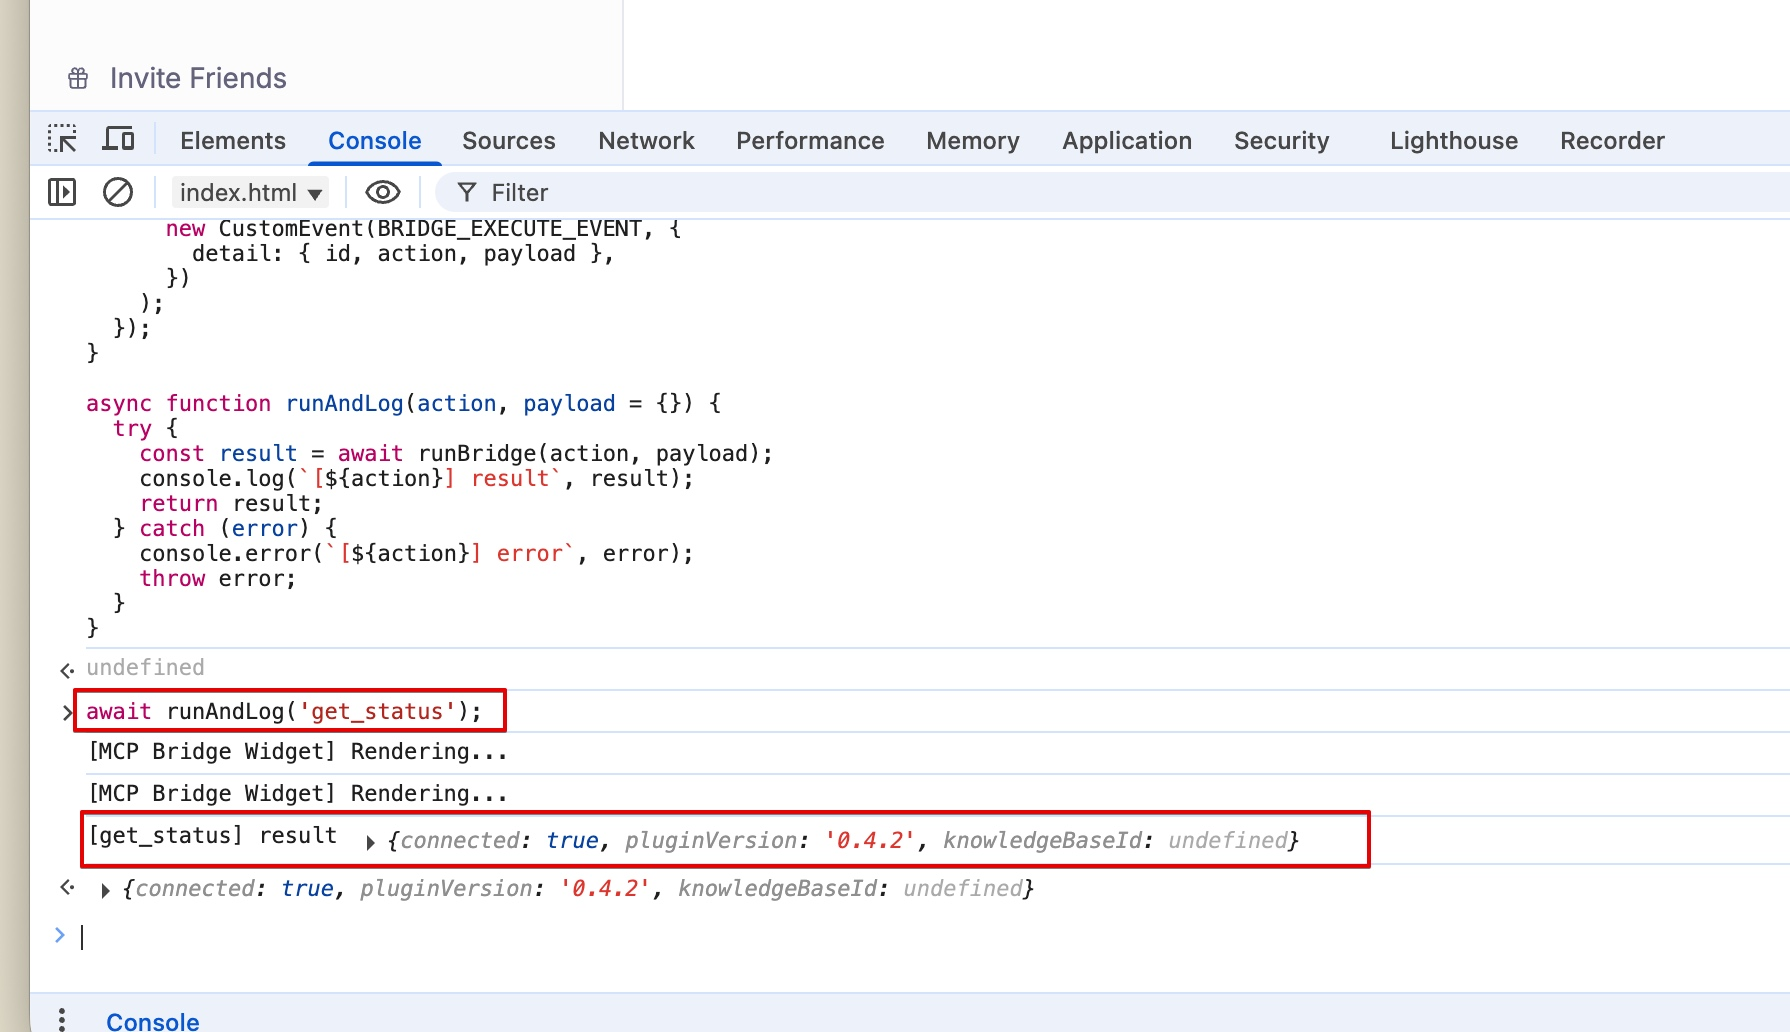
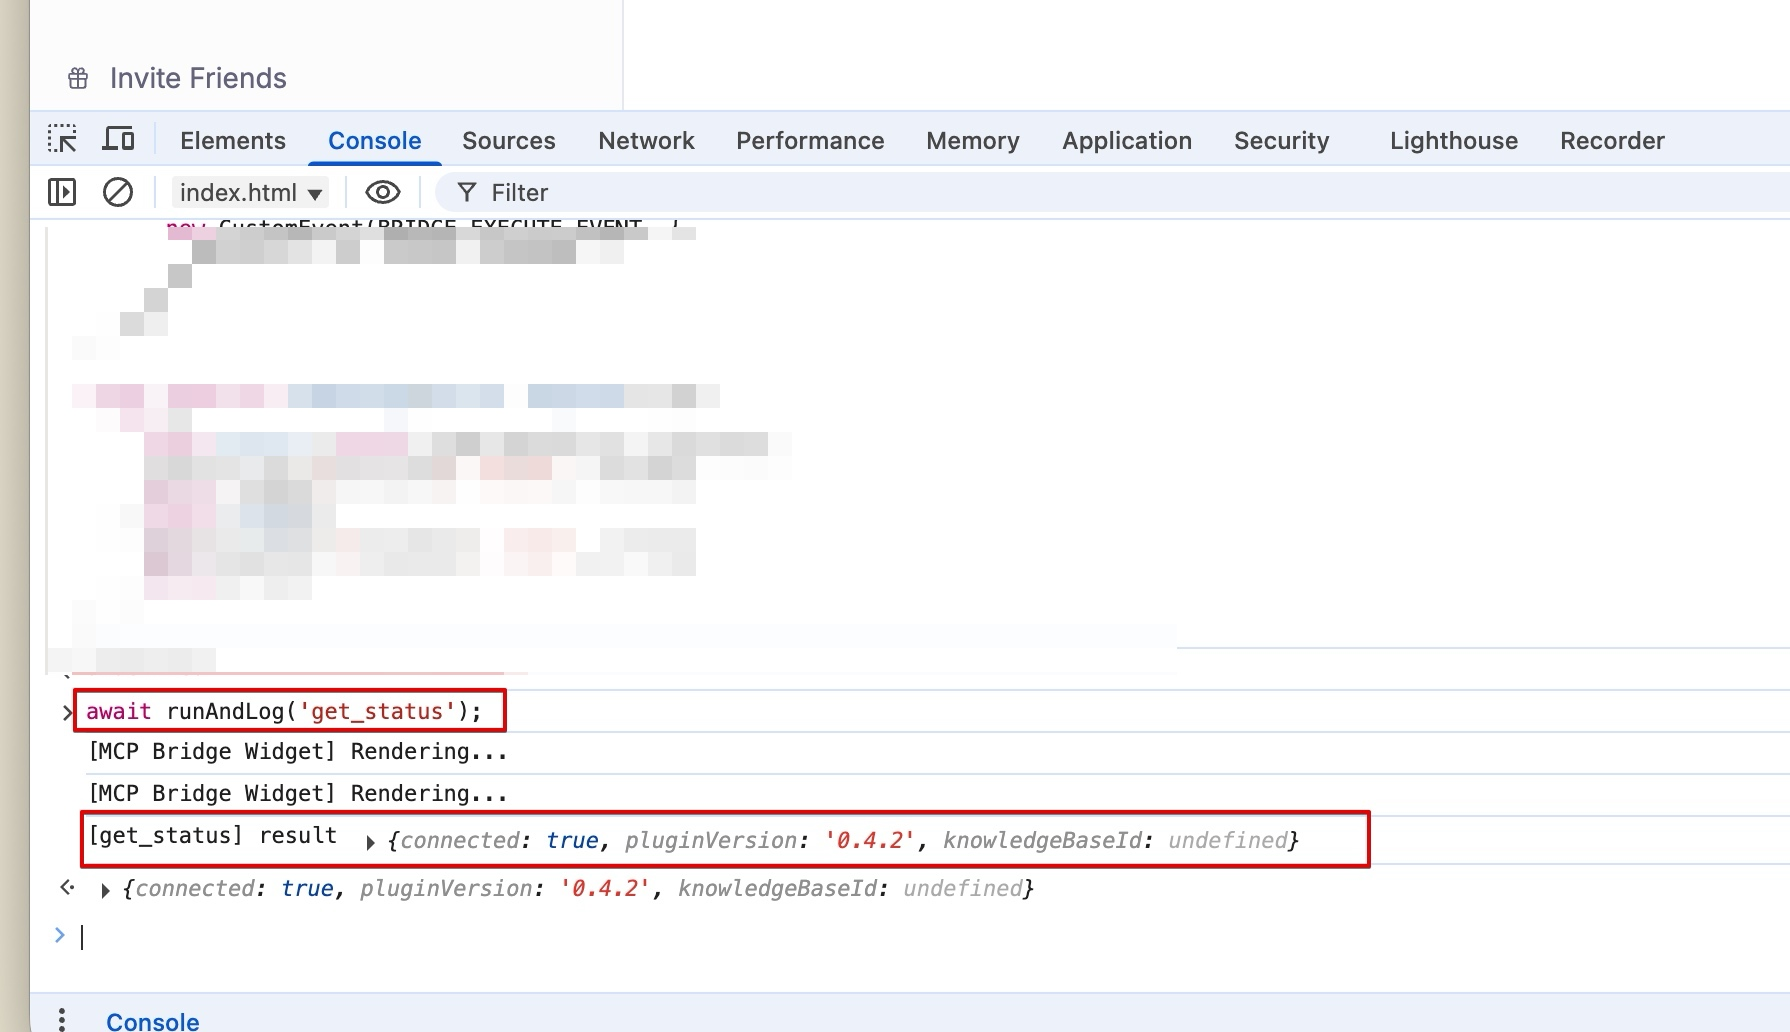
DevTools helper functions `runBridge` etc are now auto-exposed on `window.top`

diff --git a/src/widgets/devtools-bridge-executor.ts b/src/widgets/devtools-bridge-executor.ts
@@ -3,6 +3,28 @@ import { BridgeRequest } from '../bridge/websocket-client';
 export const DEVTOOLS_EXECUTE_EVENT = 'remnote:mcp:execute';
 export const DEVTOOLS_RESULT_EVENT = 'remnote:mcp:result';
 
+const LOG_TAG = '[runBridge v2]';
+
+/* ------------------------------------------------------------------ */
+/*  Window augmentation for DevTools helper functions                  */
+/* ------------------------------------------------------------------ */
+
+interface RunBridgeOptions {
+  timeoutMs?: number;
+  id?: string;
+}
+
+declare global {
+  interface Window {
+    runBridge?: (
+      action: string,
+      payload?: Record<string, unknown>,
+      opts?: RunBridgeOptions
+    ) => Promise<unknown>;
+    runAndLog?: (action: string, payload?: Record<string, unknown>) => Promise<unknown>;
+  }
+}
+
 export interface DevToolsExecuteDetail {
   id?: string;
   action?: string;
@@ -27,7 +49,11 @@ export interface DevToolsExecutorConfig {
  * Exposes bridge actions to DevTools via window events without adding global functions.
  */
 export function registerDevToolsBridgeExecutor(config: DevToolsExecutorConfig): () => void {
+  const isTopWindow = config.target !== window;
+  console.log(`${LOG_TAG} Registering listener on ${isTopWindow ? 'top' : 'iframe'} window`);
+
   const listener = async (event: Event): Promise<void> => {
+    console.log(`${LOG_TAG} Execute event received`);
     const customEvent = event as CustomEvent<DevToolsExecuteDetail>;
     const detail = customEvent.detail;
 
@@ -48,6 +74,7 @@ export function registerDevToolsBridgeExecutor(config: DevToolsExecutorConfig): 
 
     try {
       const result = await config.execute(request);
+      console.log(`${LOG_TAG} Execute succeeded, dispatching result`);
       const response: DevToolsResultDetail = {
         id: requestId,
         ok: true,
@@ -59,6 +86,7 @@ export function registerDevToolsBridgeExecutor(config: DevToolsExecutorConfig): 
       );
     } catch (error) {
       const errorMessage = error instanceof Error ? error.message : String(error);
+      console.log(`${LOG_TAG} Execute failed:`, errorMessage);
       const response: DevToolsResultDetail = {
         id: requestId,
         ok: false,
@@ -75,5 +103,70 @@ export function registerDevToolsBridgeExecutor(config: DevToolsExecutorConfig): 
 
   return () => {
     config.target.removeEventListener(DEVTOOLS_EXECUTE_EVENT, listener as EventListener);
+  };
+}
+
+/**
+ * Assigns `runBridge` and `runAndLog` on the target window so DevTools
+ * users can call them directly without pasting a helper script first.
+ *
+ * Returns a cleanup function that removes both from `window`.
+ */
+export function exposeDevToolsHelpers(target: Window): () => void {
+  target.runBridge = async (
+    action: string,
+    payload: Record<string, unknown> = {},
+    opts: RunBridgeOptions = {}
+  ): Promise<unknown> => {
+    console.log(`${LOG_TAG} action=${action}, target=${target === window ? 'iframe' : 'top'}`);
+    const timeoutMs = opts.timeoutMs ?? 15_000;
+    const id = opts.id ?? `devtools-${Date.now()}-${Math.random().toString(36).slice(2, 8)}`;
+
+    return new Promise((resolve, reject) => {
+      const timer = setTimeout(() => {
+        target.removeEventListener(DEVTOOLS_RESULT_EVENT, onResult);
+        reject(new Error(`Timed out waiting for result of ${action} (${id})`));
+      }, timeoutMs);
+
+      function onResult(event: Event): void {
+        const detail = (event as CustomEvent<DevToolsResultDetail>).detail;
+        if (!detail || detail.id !== id) return;
+
+        clearTimeout(timer);
+        target.removeEventListener(DEVTOOLS_RESULT_EVENT, onResult);
+
+        if (detail.ok) {
+          resolve(detail.result);
+        } else {
+          reject(new Error(detail.error ?? 'Unknown bridge error'));
+        }
+      }
+
+      target.addEventListener(DEVTOOLS_RESULT_EVENT, onResult);
+      target.dispatchEvent(
+        new CustomEvent<DevToolsExecuteDetail>(DEVTOOLS_EXECUTE_EVENT, {
+          detail: { id, action, payload },
+        })
+      );
+    });
+  };
+
+  target.runAndLog = async (
+    action: string,
+    payload: Record<string, unknown> = {}
+  ): Promise<unknown> => {
+    try {
+      const result = await target.runBridge!(action, payload);
+      console.log(`${LOG_TAG} [${action}] result`, result);
+      return result;
+    } catch (error) {
+      console.error(`${LOG_TAG} [${action}] error`, error);
+      throw error;
+    }
+  };
+
+  return () => {
+    delete target.runBridge;
+    delete target.runAndLog;
   };
 }

diff --git a/src/widgets/mcp_bridge.tsx b/src/widgets/mcp_bridge.tsx
@@ -10,7 +10,7 @@ import { renderWidget, usePlugin, useTracker, ReactRNPlugin } from '@remnote/plu
 import React, { useEffect, useState, useCallback, useRef } from 'react';
 import { WebSocketClient, ConnectionStatus, BridgeRequest } from '../bridge/websocket-client';
 import { RemAdapter } from '../api/rem-adapter';
-import { registerDevToolsBridgeExecutor } from './devtools-bridge-executor';
+import { registerDevToolsBridgeExecutor, exposeDevToolsHelpers } from './devtools-bridge-executor';
 import {
   SETTING_AUTO_TAG_ENABLED,
   SETTING_AUTO_TAG,
@@ -249,15 +249,34 @@ function MCPBridgeWidget() {
       return;
     }
 
+    const targetWindow = (() => {
+      try {
+        if (window.top && window.top !== window) return window.top;
+      } catch {
+        // Cross-origin sandbox restriction — stay on iframe window
+      }
+      return window;
+    })();
+
     const unregister = registerDevToolsBridgeExecutor({
-      target: window,
+      target: targetWindow,
       execute: handleRequest,
       onLog: (message, level) => addLog(message, level ?? 'info'),
     });
 
-    addLog('DevTools bridge executor ready (event-based)', 'info');
+    const removeHelpers = exposeDevToolsHelpers(targetWindow);
 
-    return unregister;
+    addLog(
+      targetWindow === window
+        ? 'DevTools bridge executor ready (runBridge / runAndLog available on iframe window)'
+        : 'DevTools bridge executor ready (runBridge / runAndLog available on top window)',
+      'info'
+    );
+
+    return () => {
+      removeHelpers();
+      unregister();
+    };
   }, [handleRequest, addLog]);
 
   // Handle reconnect button

diff --git a/docs/guides/development-execute-bridge-commands-screenshots.md b/docs/guides/development-execute-bridge-commands-screenshots.md
@@ -8,34 +8,26 @@ If you have not yet run the plugin locally, start with:
 
 - [Run The Plugin Locally (Beginner Guide)](./development-run-plugin-locally.md)
 
-## 1) Keep bridge panel visible and open helper source
+## 1) Keep bridge panel visible
 
 Before running commands from DevTools:
 
 - Make sure the **Bridge for MCP & OpenClaw** panel is visible in RemNote.
-- Open helper source file so you can copy it easily:
-  - [`docs/guides/js/development-execute-bridge-commands-00-helper.js`](./js/development-execute-bridge-commands-00-helper.js)
+- The helper functions `runBridge` and `runAndLog` are auto-exposed on `window` by the plugin — no paste step needed.
 
 ![Bridge visible and helper source](./images/execute-bridge-console-01-plugin-visible-and-helper-source.jpg)
 
-## 2) Select the correct plugin iframe console context
+## 2) Use the default (top) console context
 
-In Chrome DevTools Console context picker:
+The helper functions are now exposed on the **top window** automatically — no iframe context switching needed.
+Just open the Console tab and start typing commands.
 
-- Choose `index.html (localhost:8080)` that maps to the visible plugin iframe.
-- If multiple `localhost:8080` entries appear, test the other one if requests time out.
+> **Fallback:** If `window.top` is blocked by a cross-origin sandbox, the helpers fall back to the iframe `window`.
+> In that case, select `index.html (localhost:8080)` in the DevTools context picker.
 
 ![Select plugin iframe context](./images/execute-bridge-console-02-select-correct-plugin-iframe-context.jpg)
 
-## 3) Paste helper into console
-
-Paste and run the full helper code from the helper file once in that context.
-
-Expected immediate output is typically `undefined` (this is fine).
-
-![Paste helper in console](./images/execute-bridge-console-03-paste-helper-into-console.jpg)
-
-## 4) Run a simple command first (`get_status`)
+## 3) Run a simple command first (`get_status`)
 
 Run:
 
@@ -45,9 +37,12 @@ await runAndLog('get_status');
 
 Expected result: object with fields like `connected` and `pluginVersion`.
 
+> **Note:** The screenshot below may still show a manual paste step — this is no longer needed. Robert will update
+> this screenshot in a future pass.
+
 ![Run get_status and verify](./images/execute-bridge-console-04-run-get-status-and-verify-result.jpg)
 
-## 5) Run command with richer output (`search`)
+## 4) Run command with richer output (`search`)
 
 Run:
 
@@ -64,13 +59,15 @@ Expected result: `{ results: [...] }` with `remId`, `title`, and optional `conte
 
 ## Troubleshooting (quick)
 
-- Timeout after helper paste:
-  - Usually wrong `localhost:8080` context selected.
-  - Re-select the other `index.html (localhost:8080)` entry, paste helper again, retry.
+- `runBridge is not a function`:
+  - Bridge panel not open yet. Open the **Bridge for MCP & OpenClaw** sidebar panel first.
+  - If `window.top` is cross-origin (rare), switch to the plugin iframe context (`index.html (localhost:8080)`).
+- Timeout after running a command:
+  - Ensure the bridge panel is visible and the plugin has initialized.
+  - If cross-origin fallback is active, make sure you're in the correct iframe context.
 - No events/responses:
-  - Ensure bridge sidebar panel is open and visible; listener is registered by widget runtime.
-- Helper functions undefined:
-  - Paste helper again in the currently selected console context.
+  - Ensure bridge sidebar panel is open and visible; helper functions and event listener are registered by widget
+    runtime.
 
 ## Related guides
 

diff --git a/docs/guides/development-execute-bridge-commands.md b/docs/guides/development-execute-bridge-commands.md
@@ -19,15 +19,10 @@ This path runs through the same action handler used by WebSocket requests in `sr
 3. Open RemNote Developer Tools:
    - macOS: `Cmd+Option+I`
    - Windows/Linux: `Ctrl+Shift+I`
-4. In the Developer Console context picker, select the plugin iframe context (not the top page context).
 
-## Paste once: console helper
-
-Copy/paste the full contents of:
-
-- [`docs/guides/js/development-execute-bridge-commands-00-helper.js`](./js/development-execute-bridge-commands-00-helper.js)
-
-Then run it once in the Developer Console.
+The helper functions `runBridge(action, payload?, opts?)` and `runAndLog(action, payload?)` are automatically available
+on the **top window** once the bridge panel is open — no manual paste step and no iframe context switching required.
+Just open the Console and start typing.
 
 ## Command examples
 
@@ -61,10 +56,10 @@ Use a known Rem ID (for example `testRemId` from `create_note`).
 
 ## Troubleshooting
 
-- `Timed out waiting for result...`: Usually wrong console execution context. Re-select plugin iframe context.
-- After Chrome/RemNote restart, there can be multiple `index.html (localhost:8080)` contexts in DevTools. If one
-  times out, switch to the other `localhost:8080` context, paste helper again, and retry.
-- If the bridge widget is not visible/open yet, open the sidebar panel first. The event listener is registered by the
-  widget runtime.
+- `runBridge is not a function`: The bridge sidebar panel is not open yet, or the plugin has not finished
+  initializing. Open the **Bridge for MCP & OpenClaw** panel first — the helpers are registered by the widget runtime.
+- `Timed out waiting for result...`: Ensure the bridge panel is visible. If running in a restrictive sandbox where
+  `window.top` is cross-origin, the helpers fall back to the iframe `window` — in that case, switch to the plugin
+  iframe context (`index.html (localhost:8080)`) in the DevTools context picker.
 - `Unknown action: ...`: The action string does not match one of the supported names exactly.
 - `Note not found: ...`: `remId` does not exist in the current KB.

diff --git a/CHANGELOG.md b/CHANGELOG.md
@@ -9,6 +9,8 @@ Versioning](https://semver.org/spec/v2.0.0.html).
 
 ### Changed
 
+- DevTools helper functions (`runBridge`, `runAndLog`) are now auto-exposed on `window.top` (the default DevTools
+  console context) by the bridge plugin; no manual paste step or iframe context switching needed
 - Removed redundant `preview` field from search results (was just `title.substring(0, 100)`)
 
 ### Fixed
@@ -28,8 +30,17 @@ Versioning](https://semver.org/spec/v2.0.0.html).
 - Changed default journal entry prefix from `[Claude]` to no prefix (empty string)
 - Journal entries no longer include a leading prefix-space when the configured prefix is empty
 
+### Removed
+
+- Deleted `docs/guides/js/development-execute-bridge-commands-00-helper.js` (auto-exposed on `window` now)
+- Deleted `docs/guides/images/execute-bridge-console-03-paste-helper-into-console.jpg` (paste step removed)
+
 ### Documentation
 
+- Updated `docs/guides/development-execute-bridge-commands.md` to remove manual paste step, note auto-available
+  helpers on top window, and update troubleshooting for top-window exposure
+- Updated `docs/guides/development-execute-bridge-commands-screenshots.md` to remove paste step, note default top
+  context works without switching, and update troubleshooting
 - Updated journal prefix defaults in `README.md` and plugin setting description text to reflect no-prefix default
 - Updated `README.md` integration paths:
   - Replaced planned OpenClaw companion wording with available-now companion app wording
